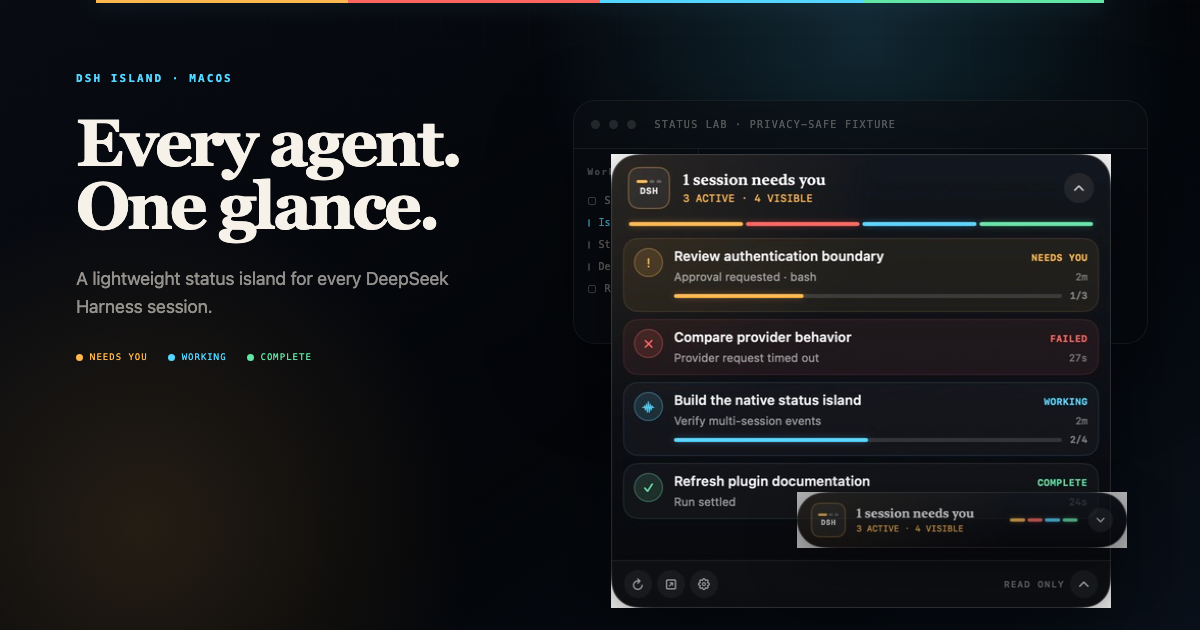
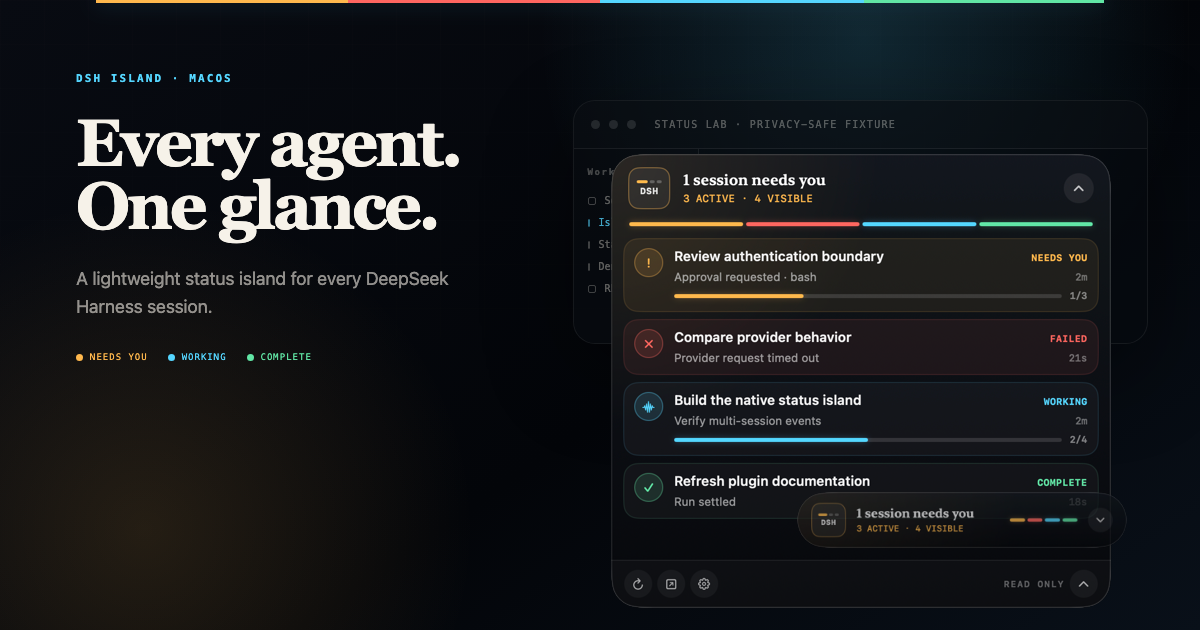
fix transparent island corners

diff --git a/scripts/verify-transparent-corners.swift b/scripts/verify-transparent-corners.swift
@@ -1,0 +1,49 @@
+import AppKit
+import Foundation
+
+guard CommandLine.arguments.count > 1 else {
+  fputs("usage: verify-transparent-corners <png> [...]\n", stderr)
+  exit(64)
+}
+
+for path in CommandLine.arguments.dropFirst() {
+  guard
+    let data = FileManager.default.contents(atPath: path),
+    let image = NSBitmapImageRep(data: data)
+  else {
+    fputs("could not read PNG: \(path)\n", stderr)
+    exit(1)
+  }
+  guard image.hasAlpha else {
+    fputs("PNG has no alpha channel: \(path)\n", stderr)
+    exit(1)
+  }
+
+  let cornerPoints = [
+    (0, 0),
+    (image.pixelsWide - 1, 0),
+    (0, image.pixelsHigh - 1),
+    (image.pixelsWide - 1, image.pixelsHigh - 1),
+  ]
+  for (x, y) in cornerPoints {
+    guard let color = image.colorAt(x: x, y: y), color.alphaComponent <= 0.16 else {
+      fputs("PNG corner is not transparent at \(x),\(y): \(path)\n", stderr)
+      exit(1)
+    }
+  }
+
+  let surfacePoints = [
+    (image.pixelsWide / 2, 0),
+    (image.pixelsWide / 2, image.pixelsHigh - 1),
+    (0, image.pixelsHigh / 2),
+    (image.pixelsWide - 1, image.pixelsHigh / 2),
+  ]
+  for (x, y) in surfacePoints {
+    guard let color = image.colorAt(x: x, y: y), color.alphaComponent >= 0.95 else {
+      fputs("PNG surface edge is unexpectedly transparent at \(x),\(y): \(path)\n", stderr)
+      exit(1)
+    }
+  }
+
+  print("transparent rounded corners: \(path)")
+}

diff --git a/docs/marketing/preview.html b/docs/marketing/preview.html
@@ -229,7 +229,11 @@
       }
 
       .product-image {
+        --product-radius: 28px;
         display: block;
+        overflow: hidden;
+        border-radius: var(--product-radius);
+        clip-path: inset(0 round var(--product-radius));
         filter: drop-shadow(0 26px 45px rgba(0, 0, 0, 0.46));
       }
 
@@ -373,12 +377,16 @@
       }
 
       .social-product .collapsed-accent {
+        --product-radius: 34px;
         position: absolute;
         z-index: 6;
         top: 420px;
         right: -3px;
         width: 330px;
         opacity: 0.7;
+        overflow: hidden;
+        border-radius: var(--product-radius);
+        clip-path: inset(0 round var(--product-radius));
         filter: blur(0.1px) drop-shadow(0 20px 28px rgba(0, 0, 0, 0.44));
       }
 
@@ -397,6 +405,7 @@
 
       .demo-layout[data-state="working"] .product-image,
       .demo-layout[data-state="attention"] .product-image {
+        --product-radius: 34px;
         width: 400px;
       }
 

diff --git a/scripts/window-id.swift b/scripts/window-id.swift
@@ -1,0 +1,34 @@
+import CoreGraphics
+import Foundation
+
+guard CommandLine.arguments.count == 2,
+  let processID = Int32(CommandLine.arguments[1])
+else {
+  fputs("usage: window-id <process-id>\n", stderr)
+  exit(64)
+}
+
+let windows =
+  CGWindowListCopyWindowInfo([.optionOnScreenOnly, .excludeDesktopElements], .zero)
+  as? [[String: Any]] ?? []
+
+let candidates = windows.compactMap { window -> (number: Int, area: CGFloat)? in
+  guard
+    window[kCGWindowOwnerPID as String] as? Int32 == processID,
+    let number = window[kCGWindowNumber as String] as? Int,
+    let boundsDictionary = window[kCGWindowBounds as String] as? NSDictionary
+  else {
+    return nil
+  }
+  var bounds = CGRect.zero
+  guard CGRectMakeWithDictionaryRepresentation(boundsDictionary, &bounds) else {
+    return nil
+  }
+  return (number, bounds.width * bounds.height)
+}
+
+guard let window = candidates.max(by: { $0.area < $1.area }) else {
+  exit(1)
+}
+
+print(window.number)

diff --git a/Sources/DSHIslandApp/IslandPanel.swift b/Sources/DSHIslandApp/IslandPanel.swift
@@ -54,10 +54,14 @@ final class IslandPanelController: NSObject, NSWindowDelegate {
       .ignoresCycle,
       .stationary,
     ]
-    panel.contentViewController = NSHostingController(
+    let hostingController = NSHostingController(
       rootView: IslandView(model: model, openSettings: openSettings)
         .frame(maxWidth: .infinity, maxHeight: .infinity)
     )
+    hostingController.view.wantsLayer = true
+    hostingController.view.layer?.backgroundColor = NSColor.clear.cgColor
+    hostingController.view.layer?.isOpaque = false
+    panel.contentViewController = hostingController
     restorePosition()
   }
 

diff --git a/docs/marketing/README.md b/docs/marketing/README.md
@@ -2,14 +2,19 @@
 
 The repository's screenshots and GIFs must never depend on a user's live DSH Host, desktop, home directory, account, notifications, or browser state.
 
-`preview.html` renders a synthetic developer workspace around deterministic DSH Island fixtures. Its visible files, code, session titles, Todo text, status counts, and paths are invented for the demo. The source uses only repository-local assets and system fonts; it performs no network requests and contains no analytics.
+`capture-product-assets.sh` launches the deterministic app fixtures and uses macOS window capture so the product PNGs retain transparent rounded corners. The script rejects any capture without an alpha channel or with an opaque corner. `preview.html` adds a second rounded clip while rendering a synthetic developer workspace. Its visible files, code, session titles, Todo text, status counts, and paths are invented for the demo. The source uses only repository-local assets and system fonts; it performs no network requests and contains no analytics.
 
-Run `./scripts/render-marketing-assets.sh` on macOS with Google Chrome installed to create:
+Run `./scripts/render-marketing-assets.sh` on macOS with Google Chrome and ffmpeg installed to recapture the product and create:
+
+- `docs/assets/dsh-island-working.png`
+- `docs/assets/dsh-island-collapsed.png`
+- `docs/assets/dsh-island-expanded.png`
 
 - `docs/assets/dsh-island-social-preview.png`
 - `docs/assets/dsh-island-desktop.png`
+- `docs/assets/dsh-island-demo.gif`
 - `.marketing/gif-frames/*.png`
 
-Encode the four GIF frames in lexical order with durations `2.2,1.6,0.5,3.2` seconds. The published `docs/assets/dsh-island-demo.gif` is 1200×720, 7.5 seconds, and intentionally uses state-based frames rather than recording a personal desktop.
+The script encodes the four GIF frames in lexical order with durations `2.2,1.6,0.5,3.2` seconds. The published `docs/assets/dsh-island-demo.gif` is 1200×720, 7.5 seconds, and intentionally uses state-based frames rather than recording a personal desktop.
 
 Before publication, visually inspect the final PNGs and decoded representative GIF frames, then confirm that metadata and OCR contain no username, home path, email address, token, live session title, or unrelated notification.

diff --git a/docs/validation.md b/docs/validation.md
@@ -23,6 +23,6 @@ The application established the two published downlink WebSockets plus an HTTP k
 
 ## Community-media privacy check
 
-The community preview update ran `./scripts/render-marketing-assets.sh` against repository-local fixtures and encoded four state frames into a 1200×720, 7.5-second GIF. The desktop and editor context is synthetic HTML; the DSH Island pixels come from the deterministic `--demo-working` and `--demo-expanded` modes. No live DSH Host, personal desktop, browser profile, home path, account, notification, or session was used.
+The community preview update ran `./scripts/render-marketing-assets.sh` against repository-local fixtures and encoded four state frames into a 1200×720, 7.5-second GIF. Product screenshots come from macOS window capture, retain transparent rounded corners, and pass an alpha-channel and corner-pixel gate before composition. The marketing template applies a second rounded clip. The desktop and editor context is synthetic HTML; the DSH Island pixels come from the deterministic `--demo-working`, `--demo`, and `--demo-expanded` modes. No live DSH Host, personal desktop, browser profile, home path, account, notification, or session was used.
 
-`swift test` passed all 28 tests. The strict release build, `bash -n scripts/build-app.sh scripts/render-marketing-assets.sh`, `git diff --check`, PNG/GIF format and dimension checks, final-GIF decode inspection, metadata inspection, OCR scanning, and binary-string scanning passed. The privacy scans looked for a home path, local username, Feishu identifiers, conversation identifiers, email addresses, API-key labels, and token labels; none appeared in the published media.
+`swift test` passed all 28 tests. The strict release build, `bash -n scripts/build-app.sh scripts/capture-product-assets.sh scripts/render-marketing-assets.sh`, `git diff --check`, PNG/GIF format and dimension checks, final-GIF decode inspection, metadata inspection, OCR scanning, and binary-string scanning passed. The privacy scans looked for a home path, local username, Feishu identifiers, conversation identifiers, email addresses, API-key labels, and token labels; none appeared in the published media.

diff --git a/docs/product-design.md b/docs/product-design.md
@@ -18,6 +18,8 @@ The interface follows an aeronautical-instrument aesthetic: an obsidian capsule,
 
 The memorable element is the signal rail. Each visible session contributes a short segment colored by its state; the highest-priority segment leads. It makes several concurrent Agents legible without turning the island into a dashboard.
 
+The native window and hosting surface remain transparent outside the continuous rounded capsule. Product screenshots preserve that alpha channel, and composed community artwork clips the screenshot to the same radius as a second safeguard.
+
 ### Visual tokens
 
 | Role | Value |
@@ -132,3 +134,4 @@ Not included:
 12. Given Reduce Motion is enabled, when state changes or the island expands, then no repeating pulse or spring animation is used.
 13. Given a local DSH Web instance at a non-default port, when the endpoint is saved, then the app reconnects without restart and persists the normalized URL.
 14. Given the optional deep-link plugin is absent, when a session row is clicked, then the DSH Web UI still opens and the island remains operational.
+15. Given either island state over any desktop color, when the native window or a published preview is rendered, then pixels outside the continuous rounded capsule remain transparent and no rectangular corner background is visible.
